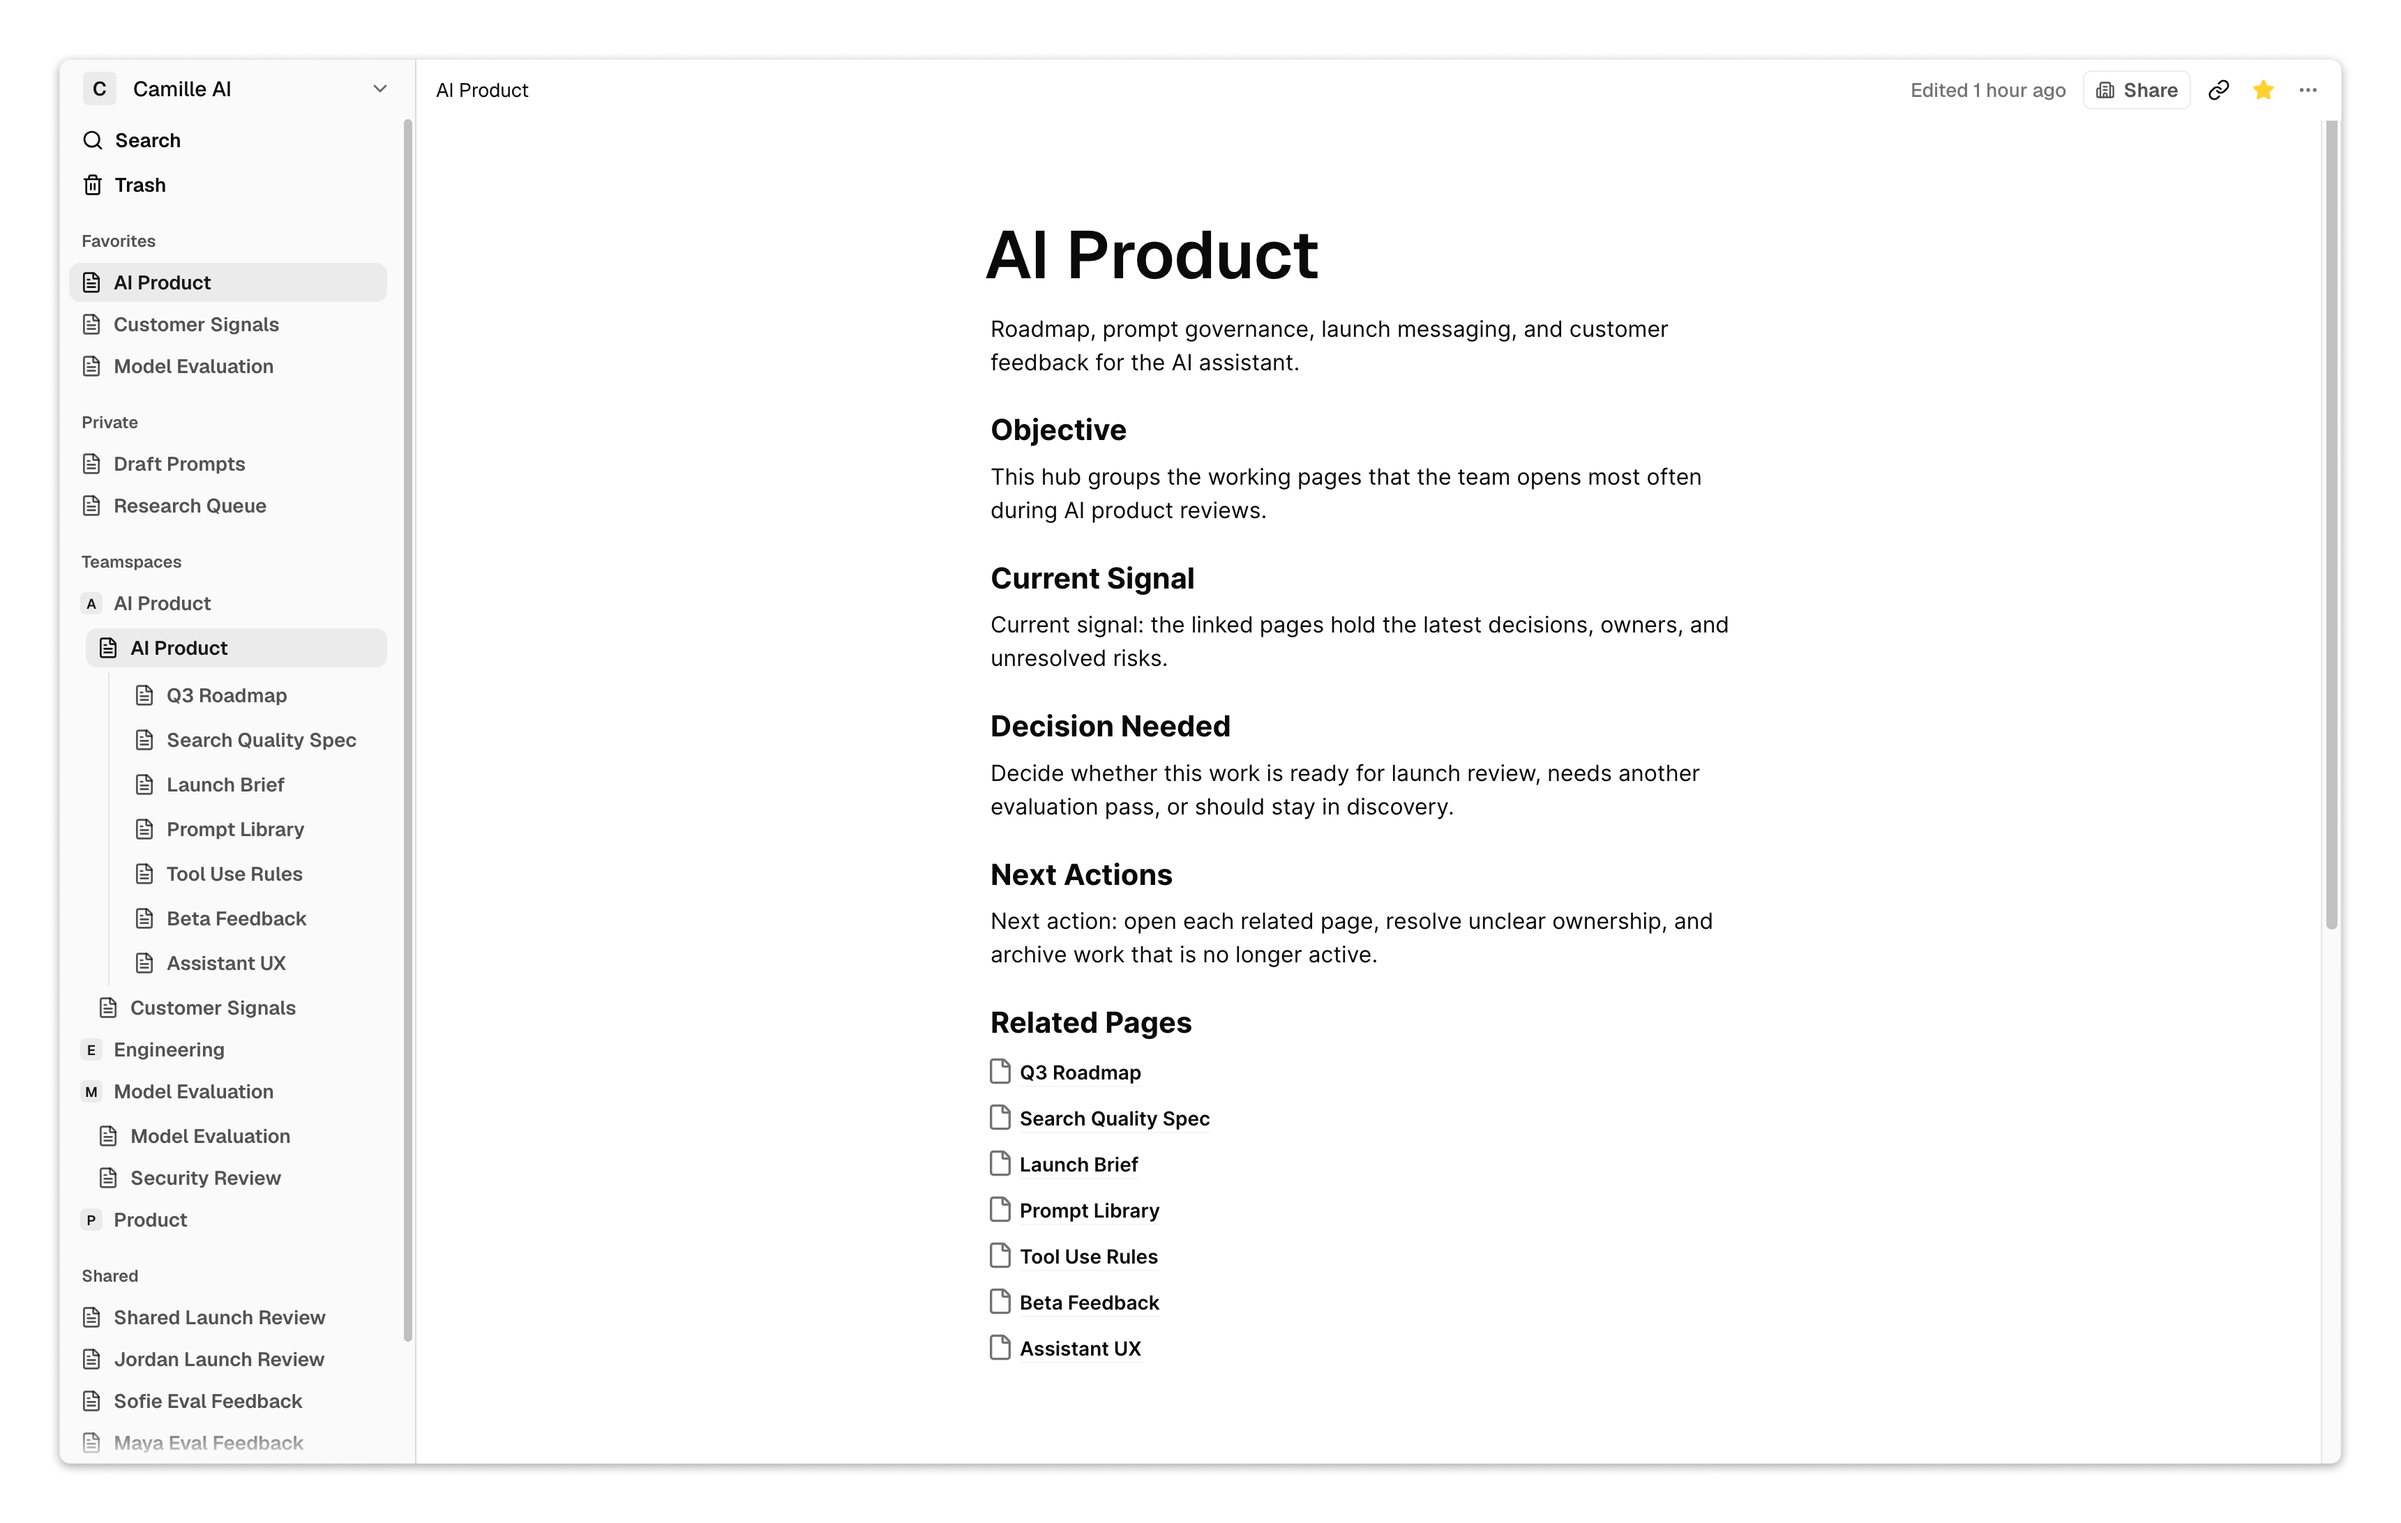
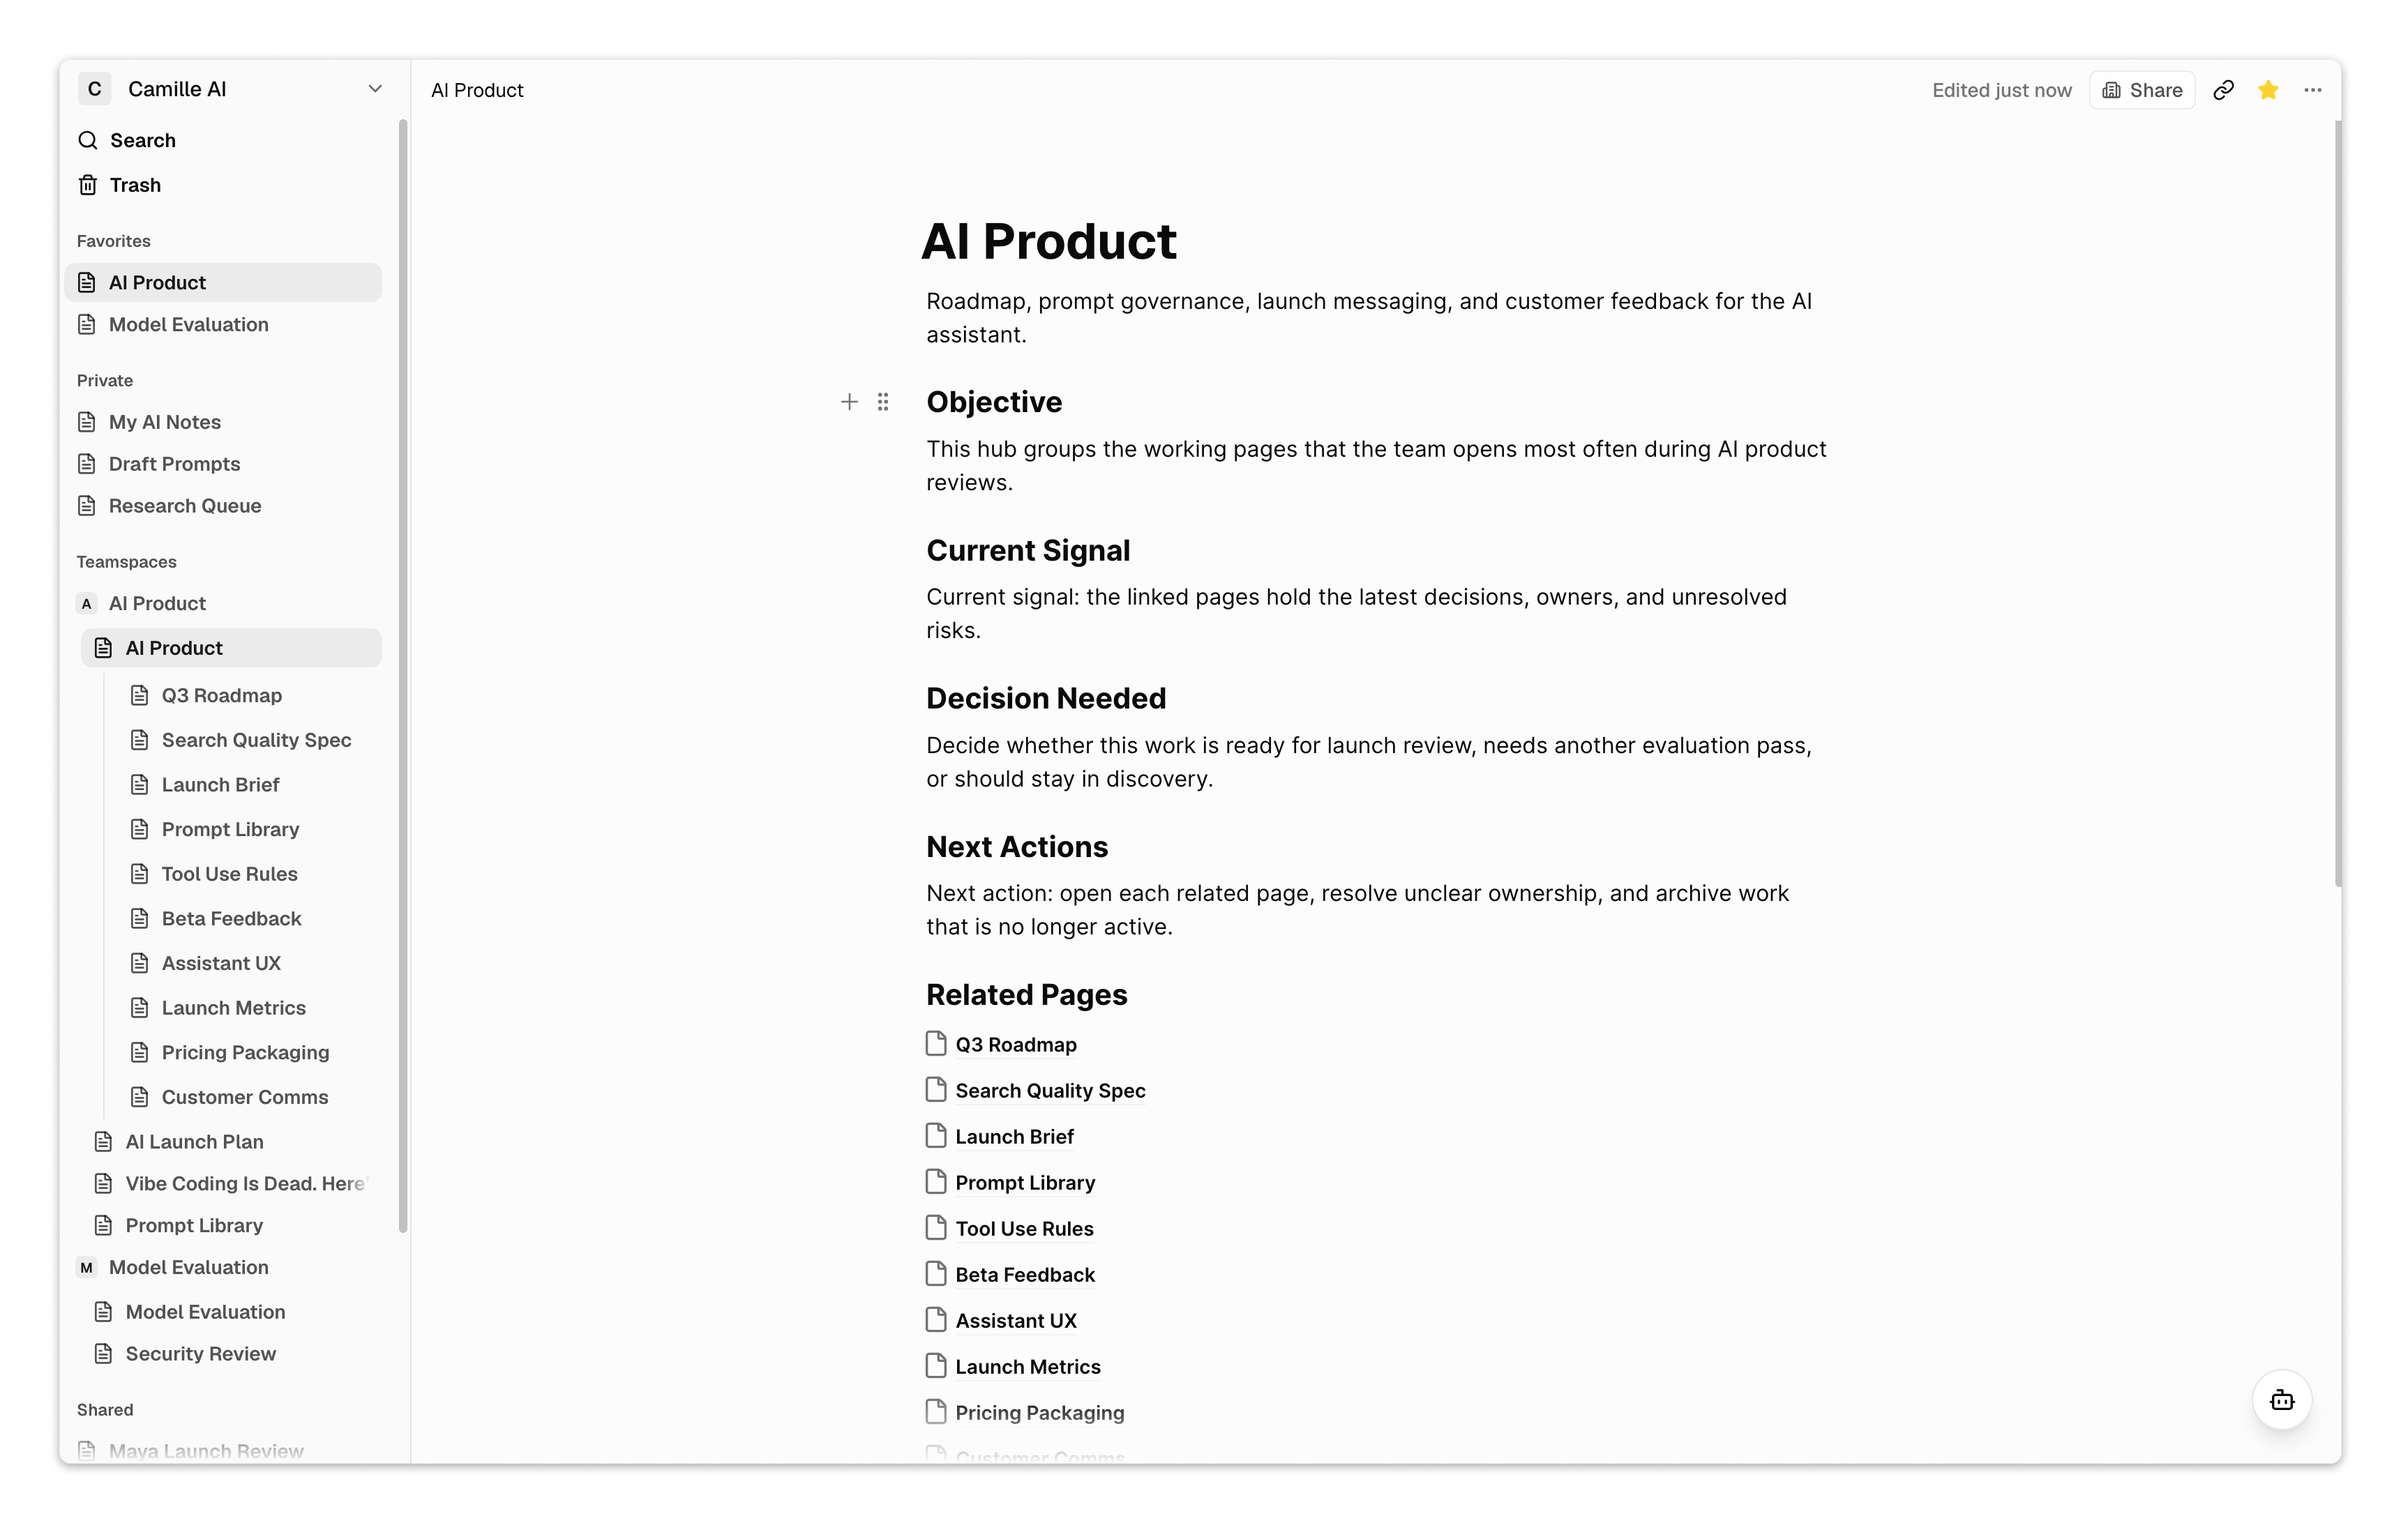
docs(product): update capabilities and workspace screenshot

diff --git a/README.md b/README.md
@@ -28,6 +28,8 @@ A note-taking web application where you can think, write, and plan.
 - **Optimistic document actions** - common actions update immediately in the UI and roll back if the request fails
 - **Resumable workspace navigation** - the app remembers the user’s last active workspace and expanded document tree state
 - **Multiple sign-in flows** - users can sign up or log in with email codes, Google OAuth, or GitHub OAuth
+- **Workspace AI assistant** - users can chat with Camille AI in a workspace, attach current documents as explicit context, stream structured responses, and append completed AI responses to editable documents
+- **Subscription plans and entitlement gates** - workspace plans control block limits, seat-based billing, checkout/cancellation flows, and AI response access through trial and upgrade gates
 
 For deeper implementation details, see the frontend and backend capability inventories:
 
